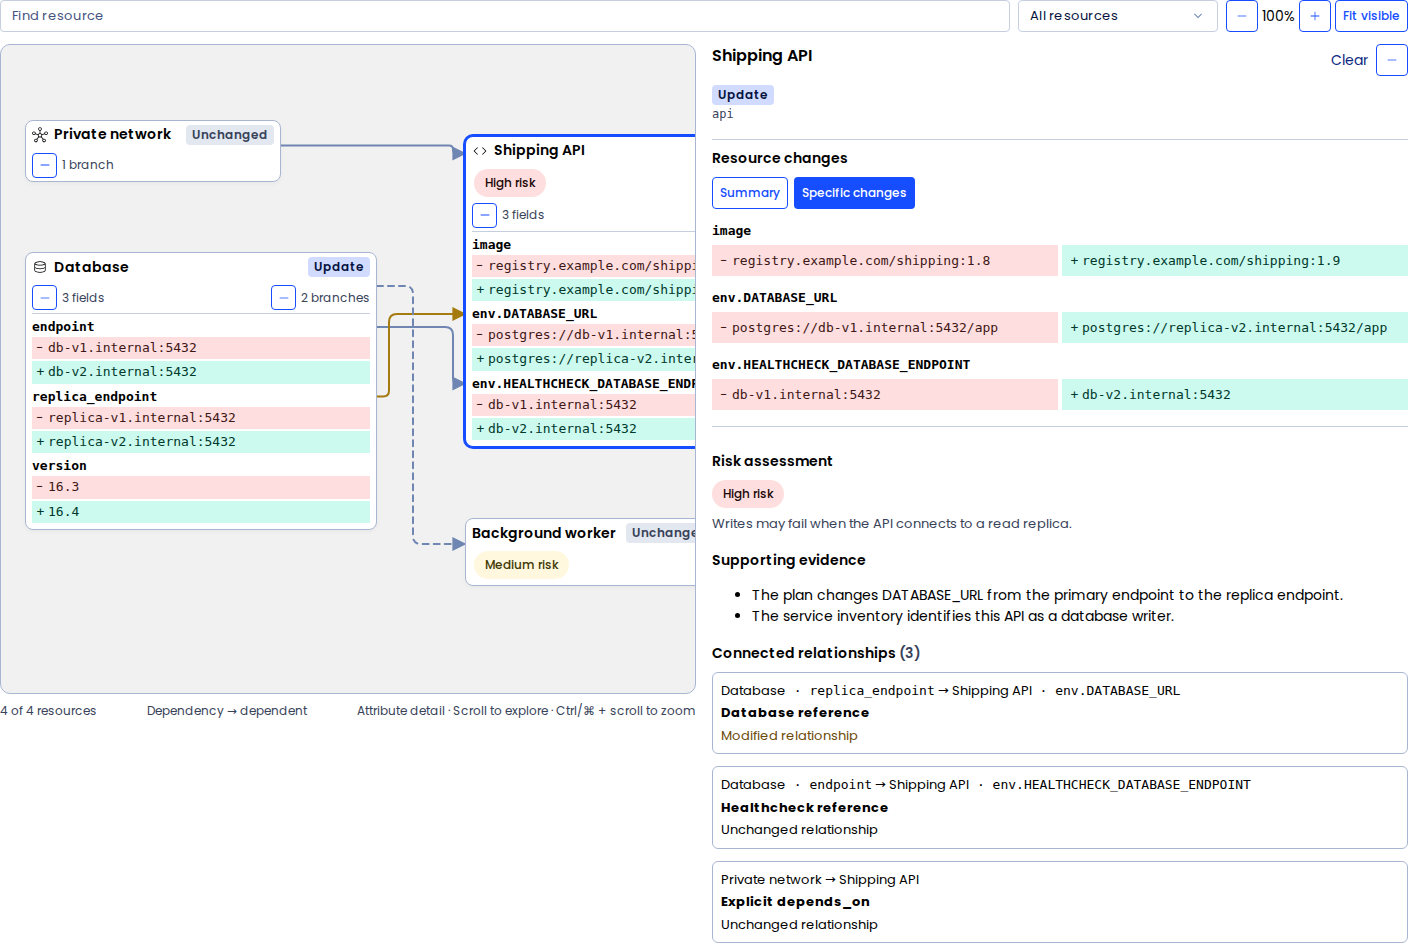
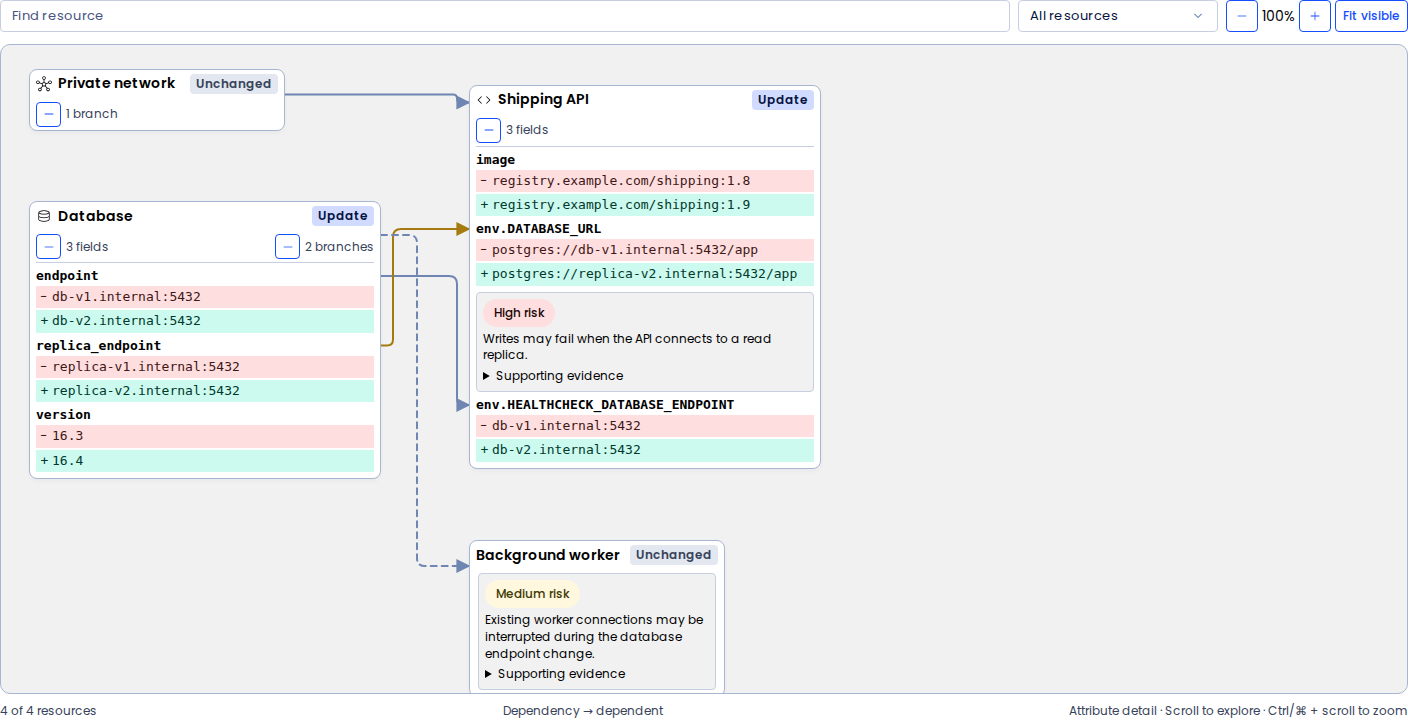
Place risk findings and evidence on resource and attribute blocks

diff --git a/easy-ui-react/src/DependencyGraph/DependencyGraphChanges.tsx b/easy-ui-react/src/DependencyGraph/DependencyGraphChanges.tsx
@@ -1,9 +1,10 @@
-import React, { useState } from "react";
+import React, { useId, useState } from "react";
 import { Button } from "../Button";
 import type {
   DependencyGraphChangePresentation,
   DependencyGraphChangeValue,
   DependencyGraphNode,
+  DependencyGraphProps,
 } from "./types";
 import styles from "./DependencyGraph.module.scss";
 
@@ -18,6 +19,7 @@ export type DependencyGraphChangesProps = {
   showPresentationControls?: boolean;
   /** Omit the heading when embedding inside a resource card. */
   compact?: boolean;
+  renderAttributeAnnotation?: DependencyGraphProps["renderAttributeAnnotation"];
 };
 
 const summaries = {
@@ -73,7 +75,9 @@ export function DependencyGraphChanges({
   onPresentationChange,
   showPresentationControls = true,
   compact = false,
+  renderAttributeAnnotation,
 }: DependencyGraphChangesProps) {
+  const instanceId = useId();
   const [localPresentation, setLocalPresentation] =
     useState(defaultPresentation);
   const presentation = controlledPresentation ?? localPresentation;
@@ -135,26 +139,43 @@ export function DependencyGraphChanges({
           className={styles.fieldChanges}
           aria-label={`${node.label} attribute differences`}
         >
-          {changes.map((change, index) => (
-            <div
-              key={`${change.path}:${index}`}
-              data-field-change={change.path}
-            >
-              <dt>
-                <code>{change.path}</code>
-              </dt>
-              <dd className={styles.fieldValues} data-field-values>
-                <DiffValue
-                  kind="removal"
-                  value={change.type === "add" ? undefined : change.before}
-                />
-                <DiffValue
-                  kind="addition"
-                  value={change.type === "remove" ? undefined : change.after}
-                />
-              </dd>
-            </div>
-          ))}
+          {changes.map((change, index) => {
+            const annotation = renderAttributeAnnotation?.(node, change);
+            const hasAnnotation =
+              annotation != null &&
+              typeof annotation !== "boolean" &&
+              annotation !== "";
+            const annotationId = `${instanceId}-attribute-annotation-${index}`;
+            return (
+              <div
+                key={`${change.path}:${index}`}
+                data-field-change={change.path}
+              >
+                <dt aria-describedby={hasAnnotation ? annotationId : undefined}>
+                  <code>{change.path}</code>
+                </dt>
+                <dd className={styles.fieldValues} data-field-values>
+                  <DiffValue
+                    kind="removal"
+                    value={change.type === "add" ? undefined : change.before}
+                  />
+                  <DiffValue
+                    kind="addition"
+                    value={change.type === "remove" ? undefined : change.after}
+                  />
+                </dd>
+                {hasAnnotation && (
+                  <dd
+                    id={annotationId}
+                    className={styles.attributeAnnotation}
+                    data-graph-attribute-annotation
+                  >
+                    {annotation}
+                  </dd>
+                )}
+              </div>
+            );
+          })}
         </dl>
       ) : null}
       {!changes.length && (

diff --git a/easy-ui-react/src/DependencyGraph/DependencyGraph.test.tsx b/easy-ui-react/src/DependencyGraph/DependencyGraph.test.tsx
@@ -90,6 +90,79 @@ describe("DependencyGraph interaction contract", () => {
     expect(node).not.toHaveAttribute("aria-describedby");
     expect(screen.queryByText(/risk/i)).not.toBeInTheDocument();
   });
+  it("keeps attribute findings on the matching block in cards and inspector diffs", () => {
+    const changes = [
+      {
+        path: "endpoint",
+        type: "change" as const,
+        before: "primary",
+        after: "replica",
+      },
+      { path: "version", type: "change" as const, before: "1", after: "2" },
+    ];
+    const resources = [
+      { id: "api", label: "API", changes },
+      { id: "worker", label: "Worker", changes },
+    ];
+    const select = vi.fn();
+    const evidence = vi.fn();
+    const { container } = render(
+      <DependencyGraph
+        nodes={resources}
+        edges={[]}
+        defaultSelection={{ type: "node", id: "api" }}
+        defaultChangePresentation="diff"
+        defaultExpandedChangeNodeIds={["api", "worker"]}
+        onSelectionChange={select}
+        renderAttributeAnnotation={(node, change) =>
+          node.id === "api" && change.path === "endpoint" ? (
+            <div>
+              High risk: writes may fail.
+              <button onClick={evidence}>Read evidence</button>
+            </div>
+          ) : null
+        }
+      />,
+    );
+    const card = container.querySelector(
+      '[data-graph-resource-card="api"]',
+    ) as HTMLElement;
+    const details = screen.getByRole("complementary", {
+      name: "Graph selection details",
+    });
+    for (const block of [card, details]) {
+      const endpoint = within(block).getByText("endpoint").closest("dt");
+      expect(endpoint).toHaveAccessibleDescription(
+        "High risk: writes may fail. Read evidence",
+      );
+      expect(
+        within(block).getByText("version").closest("dt"),
+      ).not.toHaveAttribute("aria-describedby");
+      expect(within(block).getByText("primary")).toBeVisible();
+      expect(within(block).getByText("replica")).toBeVisible();
+    }
+    expect(
+      container.querySelector(
+        '[data-graph-resource-card="worker"] [data-graph-attribute-annotation]',
+      ),
+    ).toBeNull();
+    const ids = [
+      ...container.querySelectorAll("[data-graph-attribute-annotation]"),
+    ].map((el) => el.id);
+    expect(new Set(ids).size).toBe(2);
+    fireEvent.click(
+      within(card).getByRole("button", { name: "Read evidence" }),
+    );
+    expect(evidence).toHaveBeenCalledOnce();
+    expect(select).not.toHaveBeenCalled();
+    fireEvent.click(
+      within(card).getByRole("button", {
+        name: "Hide attribute differences for API",
+      }),
+    );
+    expect(within(card).queryByText(/High risk/)).not.toBeInTheDocument();
+    expect(within(details).getByText(/High risk/)).toBeVisible();
+  });
   it("does not label absent change evidence as unchanged", () => {
     render(
       <DependencyGraph

diff --git a/easy-ui-react/src/DependencyGraph/DependencyGraph.examples.tsx b/easy-ui-react/src/DependencyGraph/DependencyGraph.examples.tsx
@@ -191,15 +191,32 @@ const riskEdges = [
     variant: "dashed" as const,
   },
 ];
-const riskFor = (id: string) =>
-  Object.prototype.hasOwnProperty.call(riskFindings, id)
-    ? riskFindings[id as keyof typeof riskFindings]
-    : undefined;
 function RiskLabel({ severity }: { severity: "high" | "medium" }) {
   return (
     <Pill size="sm" tone={severity === "high" ? "danger" : "warning"}>
       {severity === "high" ? "High risk" : "Medium risk"}
     </Pill>
+  );
+}
+
+function RiskAnnotation({
+  finding,
+}: {
+  finding: (typeof riskFindings)[keyof typeof riskFindings];
+}) {
+  return (
+    <div className={styles.riskAnnotation}>
+      <RiskLabel severity={finding.severity} />
+      <p>{finding.summary}</p>
+      <details>
+        <summary>Supporting evidence</summary>
+        <ul>
+          {finding.evidence.map((evidence) => (
+            <li key={evidence}>{evidence}</li>
+          ))}
+        </ul>
+      </details>
+    </div>
   );
 }
 
@@ -210,35 +227,18 @@ export function DependencyGraphRiskExample() {
       nodes={riskNodes}
       edges={riskEdges}
       height={650}
-      defaultSelection={{ type: "node", id: "api" }}
+      showDetails={false}
       defaultExpandedChangeNodeIds={["database", "api"]}
-      defaultChangePresentation="diff"
-      defaultDetailsExpanded
-      renderNodeAnnotation={(node) => {
-        const risk = riskFor(node.id);
-        return risk ? <RiskLabel severity={risk.severity} /> : null;
-      }}
-      renderDetails={({ node, edges }) => {
-        const risk = node
-          ? riskFor(node.id)
-          : edges.some((edge) => edge.id === "database-reference")
-            ? riskFindings.api
-            : undefined;
-        if (!risk) return null;
-        return (
-          <section className={styles.evidence} aria-label="Risk assessment">
-            <h4>Risk assessment</h4>
-            <RiskLabel severity={risk.severity} />
-            <p>{risk.summary}</p>
-            <h4>Supporting evidence</h4>
-            <ul>
-              {risk.evidence.map((evidence) => (
-                <li key={evidence}>{evidence}</li>
-              ))}
-            </ul>
-          </section>
-        );
-      }}
+      renderNodeAnnotation={(node) =>
+        node.id === "worker" ? (
+          <RiskAnnotation finding={riskFindings.worker} />
+        ) : null
+      }
+      renderAttributeAnnotation={(node, change) =>
+        node.id === "api" && change.path === "env.DATABASE_URL" ? (
+          <RiskAnnotation finding={riskFindings.api} />
+        ) : null
+      }
     />
   );
 }

diff --git a/easy-ui-react/src/DependencyGraph/DependencyGraph.tsx b/easy-ui-react/src/DependencyGraph/DependencyGraph.tsx
@@ -96,6 +96,7 @@ export function DependencyGraph({
   onDetailsExpandedChange,
   defaultChangePresentation,
   renderNodeAnnotation,
+  renderAttributeAnnotation,
   renderDetails,
 }: DependencyGraphProps) {
   const [localSelection, setLocalSelection] = useState(defaultSelection);
@@ -1188,6 +1189,9 @@ export function DependencyGraph({
                                   presentation="diff"
                                   showPresentationControls={false}
                                   compact
+                                  renderAttributeAnnotation={
+                                    renderAttributeAnnotation
+                                  }
                                 />
                               )}
                             </div>
@@ -1253,6 +1257,7 @@ export function DependencyGraph({
             selection={selection}
             onSelectionChange={select}
             renderDetails={renderDetails}
+            renderAttributeAnnotation={renderAttributeAnnotation}
             defaultChangePresentation={defaultChangePresentation}
             expanded={detailsExpanded}
             onExpandedChange={changeDetailsExpanded}

diff --git a/easy-ui-react/src/DependencyGraph/DependencyGraph.stories.tsx b/easy-ui-react/src/DependencyGraph/DependencyGraph.stories.tsx
@@ -41,6 +41,7 @@ const meta: Meta<typeof DependencyGraph> = {
     groups: { control: false },
     renderDetails: { control: false },
     renderNodeAnnotation: { control: false },
+    renderAttributeAnnotation: { control: false },
   },
   parameters: { layout: "padded" },
 };
@@ -79,7 +80,7 @@ export const RiskAnnotations: Story = {
     docs: {
       description: {
         story:
-          "Illustrative application-supplied findings combine plan changes with service inventory and runtime dependency evidence. The graph displays the findings without calculating risk. An unchanged resource can still be affected; omitted annotations do not mean low risk.",
+          "Illustrative application-supplied findings combine plan changes with service inventory and runtime dependency evidence. Findings and expandable evidence live on the relevant resource or attribute block. The graph displays the findings without calculating risk. An unchanged resource can still be affected; omitted annotations do not mean low risk.",
       },
     },
   },

diff --git a/easy-ui-react/src/DependencyGraph/types.ts b/easy-ui-react/src/DependencyGraph/types.ts
@@ -141,8 +141,13 @@ export type DependencyGraphProps = {
   onDetailsExpandedChange?: (expanded: boolean) => void;
   /** Initial change presentation for each newly selected resource. */
   defaultChangePresentation?: DependencyGraphChangePresentation;
-  /** Optional compact application-owned context, such as a risk finding. Does not change diff colors or infer risk. */
+  /** Application-owned annotation on the resource block, such as a risk finding. Does not infer risk. */
   renderNodeAnnotation?: (node: DependencyGraphNode) => ReactNode;
+  /** Annotation on an exact attribute block in expanded cards and inspector diffs. */
+  renderAttributeAnnotation?: (
+    node: DependencyGraphNode,
+    change: DependencyGraphPropertyChange,
+  ) => ReactNode;
   /** Additional evidence/diff content below the standard selection details. */
   renderDetails?: (context: DependencyGraphDetailsContext) => ReactNode;
 };

diff --git a/easy-ui-react/src/DependencyGraph/DependencyGraphDetails.tsx b/easy-ui-react/src/DependencyGraph/DependencyGraphDetails.tsx
@@ -20,6 +20,7 @@ export type DependencyGraphDetailsProps = {
   selection: DependencyGraphSelection;
   onSelectionChange: (selection: DependencyGraphSelection) => void;
   renderDetails?: DependencyGraphProps["renderDetails"];
+  renderAttributeAnnotation?: DependencyGraphProps["renderAttributeAnnotation"];
   defaultChangePresentation?: DependencyGraphChangePresentation;
   /** Optional size control for an application-owned inspector layout. */
   expanded?: boolean;
@@ -136,6 +137,7 @@ export function DependencyGraphDetails(props: DependencyGraphDetailsProps) {
                   key={context.node.id}
                   node={context.node}
                   defaultPresentation={props.defaultChangePresentation}
+                  renderAttributeAnnotation={props.renderAttributeAnnotation}
                 />
               </>
             )}

diff --git a/easy-ui-react/src/DependencyGraph/DependencyGraph.examples.module.scss b/easy-ui-react/src/DependencyGraph/DependencyGraph.examples.module.scss
@@ -25,3 +25,28 @@
     grid-template-columns: minmax(0, 1fr) 280px;
   }
 }
+
+.riskAnnotation {
+  display: grid;
+  justify-items: start;
+  gap: 4px;
+  border: 1px solid design-token("color.neutral.200");
+  border-radius: 4px;
+  padding: 6px;
+  background: design-token("color.neutral.050");
+  line-height: 1.4;
+  > p {
+    margin: 0;
+  }
+  ul {
+    margin: 4px 0 0;
+    padding-inline-start: 16px;
+  }
+  summary {
+    cursor: pointer;
+    &:focus-visible {
+      outline: 2px solid design-token("color.primary.500");
+      outline-offset: 2px;
+    }
+  }
+}

diff --git a/easy-ui-react/src/DependencyGraph/DependencyGraph.module.scss b/easy-ui-react/src/DependencyGraph/DependencyGraph.module.scss
@@ -415,6 +415,12 @@
 }
 .nodeAnnotation {
   padding: 0 8px 6px;
+}
+.attributeAnnotation {
+  margin: 6px 0 0;
+}
+.nodeAnnotation,
+.attributeAnnotation {
   font-size: max(0.75rem, calc(12px / var(--dependency-graph-zoom)));
   > * {
     font-size: inherit;

diff --git a/.changeset/dependency-graph-browser.md b/.changeset/dependency-graph-browser.md
@@ -3,4 +3,4 @@
 "@easypost/easy-ui-icons": minor
 ---
 
-Add DependencyGraph and its selection-details and resource-change companions for directed dependency investigation. Includes optional headings, an expandable selection inspector, application-owned node annotation and risk-evidence composition, bounded neighborhoods, group and dependent-branch collapse, stable selection and relationship bundles, search, keyboard navigation, stable resource ordering across edge visibility and card/group/branch disclosure, content-sized expanded cards that adjust spacing without reordering neighbors, compact zoom-aware cards with single-row identity/status headers and tighter field spacing, caller-supplied type icons, responsive stacked/side-by-side attribute diffs, colored added/removed/modified relationship links, optional attribute endpoints and block-level depends_on connections, and rounded orthogonal routing, and explicit missing or redacted evidence states. Add reusable ExpandButton (+) and CollapseButton (−) disclosure atoms and Database, Storage, Hub, and Remove icons. Applications retain ownership of relationship discovery, provenance, and operational risk.
+Add DependencyGraph and its selection-details and resource-change companions for directed dependency investigation. Includes optional headings, an expandable selection inspector, application-owned resource and attribute annotations with inline risk evidence, bounded neighborhoods, group and dependent-branch collapse, stable selection and relationship bundles, search, keyboard navigation, stable resource ordering across edge visibility and card/group/branch disclosure, content-sized expanded cards that adjust spacing without reordering neighbors, compact zoom-aware cards with single-row identity/status headers and tighter field spacing, caller-supplied type icons, responsive stacked/side-by-side attribute diffs, colored added/removed/modified relationship links, optional attribute endpoints and block-level depends_on connections, and rounded orthogonal routing, and explicit missing or redacted evidence states. Add reusable ExpandButton (+) and CollapseButton (−) disclosure atoms and Database, Storage, Hub, and Remove icons. Applications retain ownership of relationship discovery, provenance, and operational risk.
